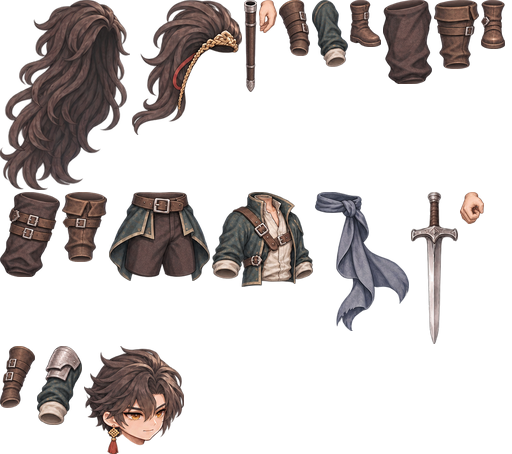
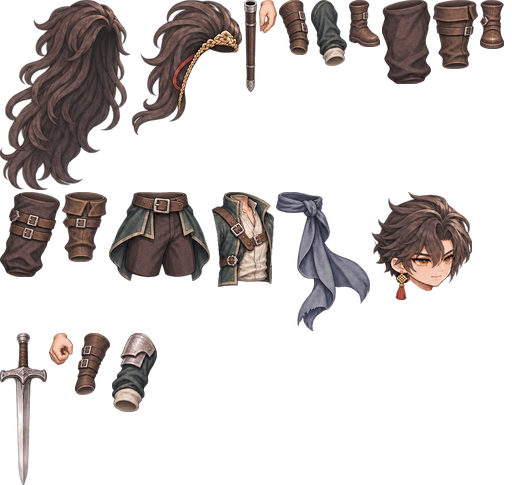
Fix doubled upper arms and stiff elbows on the hero rig
The torso part had both sleeves painted in, so the separate arm parts
showed as a second upper arm. The build tool now erases those sleeves.
The sword arm is drawn in front of the head, the elbow flexes in every
animation instead of staying straight or hyperextending, and the left
arm hangs closer to the body.

Claude-Session: https://claude.ai/code/session_01J9LfSfad22sechsEVjmRAY

Changed region(s): [[0.0, 0.0, 1.0, 0.7709], [0.0, 0.6784, 0.375, 1.0], [0.4688, 0.1233, 0.5, 0.2159]]

diff --git a/src/entities/heroAnimations.ts b/src/entities/heroAnimations.ts
@@ -5,6 +5,8 @@
  * 회전은 화면에서 시계 방향이 +이고, 캐릭터는 오른쪽을 보고 있다.
  *   - 아래로 늘어진 팔다리: +는 뒤로(왼쪽), -는 앞으로(오른쪽)
  *   - 위로 선 몸통·머리:   +는 앞으로 숙임, -는 뒤로 젖힘
+ *   - 팔꿈치(forearm):    -가 접는 방향. +로 주면 반대로 꺾여 보인다.
+ *   - 무릎(shin):         +가 접는 방향
  * x, y는 골반 전체를 옮기는 값(리그 좌표, y는 아래가 +)이다.
  *
  * 숫자를 바꾸면 바로 움직임이 달라진다. 뼈 이름은 src/assets/hero/rig.json 참고.
@@ -80,6 +82,7 @@ const idle: RigAnimation = {
       chest: s * 1.2,
       head: -s * 1.2,
       upper_arm_r: 2 + s * 1.5,
+      forearm_r: -8 - s * 2,
       upper_arm_l: -2 - s * 1.5,
       forearm_l: -4,
       hair_back: late * 2.5,
@@ -115,7 +118,7 @@ const walk: RigAnimation = {
       shin_l: bendL * 38 + 4,
       foot_l: -bendL * 10,
       upper_arm_r: s * 16,
-      forearm_r: -8,
+      forearm_r: -18 - Math.max(0, -s) * 16,
       upper_arm_l: -s * 18,
       forearm_l: -14 - Math.max(0, s) * 10,
       hair_back: 9 + twice * 4,
@@ -133,10 +136,10 @@ const attack1: RigAnimation = {
   follow: 38,
   pose: keyframes([
     [0, {}],
-    [0.22, { upper_arm_r: 165, forearm_r: 25, hand_r: 15, chest: -8, head: -4, hair_back: -8, thigh_r: -4, x: -3 }],
-    [0.42, { upper_arm_r: 255, forearm_r: 8, hand_r: -6, chest: 6, head: 2, upper_arm_l: 20, x: 5, y: 3 }],
-    [0.6, { upper_arm_r: 318, forearm_r: 0, hand_r: -10, chest: 13, head: 4, upper_arm_l: 30, hair_back: 14, ponytail: 16, sash: 16, thigh_l: -10, shin_l: 12, x: 8, y: 6 }],
-    [1, { upper_arm_r: 360, chest: 3, hair_back: 6, ponytail: 6, sash: 6, y: 2 }],
+    [0.22, { upper_arm_r: 160, forearm_r: -40, hand_r: 25, chest: -8, head: -4, hair_back: -8, thigh_r: -4, x: -3 }],
+    [0.42, { upper_arm_r: 250, forearm_r: -35, hand_r: -10, chest: 6, head: 2, upper_arm_l: 20, x: 5, y: 3 }],
+    [0.6, { upper_arm_r: 322, forearm_r: -8, hand_r: -14, chest: 13, head: 4, upper_arm_l: 30, hair_back: 14, ponytail: 16, sash: 16, thigh_l: -10, shin_l: 12, x: 8, y: 6 }],
+    [1, { upper_arm_r: 360, forearm_r: -8, chest: 3, hair_back: 6, ponytail: 6, sash: 6, y: 2 }],
   ]),
 };
 
@@ -147,11 +150,11 @@ const attack2: RigAnimation = {
   follow: 38,
   pose: keyframes([
     [0, {}],
-    [0.2, { upper_arm_r: 30, forearm_r: -10, chest: 10, head: 4, x: 2, y: 6, thigh_l: -8, shin_l: 12 }],
-    [0.42, { upper_arm_r: -85, forearm_r: -10, hand_r: -12, chest: 4, x: 6, y: 3 }],
-    [0.6, { upper_arm_r: -175, forearm_r: -15, hand_r: -8, chest: -9, head: -6, upper_arm_l: 24, hair_back: -10, ponytail: -10, sash: -8, x: 6 }],
-    [0.8, { upper_arm_r: -260, forearm_r: -20, chest: -4, hair_back: -4 }],
-    [1, { upper_arm_r: -360 }],
+    [0.2, { upper_arm_r: 30, forearm_r: -25, chest: 10, head: 4, x: 2, y: 6, thigh_l: -8, shin_l: 12 }],
+    [0.42, { upper_arm_r: -80, forearm_r: -30, hand_r: -12, chest: 4, x: 6, y: 3 }],
+    [0.6, { upper_arm_r: -160, forearm_r: -60, hand_r: -10, chest: -9, head: -6, upper_arm_l: 24, hair_back: -10, ponytail: -10, sash: -8, x: 6 }],
+    [0.8, { upper_arm_r: -250, forearm_r: -70, chest: -4, hair_back: -4 }],
+    [1, { upper_arm_r: -360, forearm_r: -8 }],
   ]),
 };
 
@@ -165,7 +168,7 @@ const attack3: RigAnimation = {
     [0.28, { upper_arm_r: 50, forearm_r: -100, hand_r: -8, chest: -10, head: -4, upper_arm_l: -30, forearm_l: -30, x: -8, y: 5, thigh_r: 6, hair_back: -6 }],
     [0.42, { upper_arm_r: -104, forearm_r: -12, hand_r: -22, chest: 18, head: -8, upper_arm_l: 55, forearm_l: -10, x: 20, y: 14, thigh_l: -42, shin_l: 46, foot_l: -6, thigh_r: 26, shin_r: 6, hair_back: 24, ponytail: 26, sash: 26 }],
     [0.72, { upper_arm_r: -100, forearm_r: -10, hand_r: -22, chest: 16, head: -6, upper_arm_l: 50, forearm_l: -10, x: 18, y: 13, thigh_l: -40, shin_l: 44, foot_l: -6, thigh_r: 24, shin_r: 6, hair_back: 12, ponytail: 12, sash: 14 }],
-    [1, { y: 2 }],
+    [1, { y: 2, forearm_r: -8 }],
   ]),
 };
 
@@ -186,7 +189,7 @@ const dodge: RigAnimation = {
     shin_r: 34,
     foot_r: 10,
     upper_arm_r: 34,
-    forearm_r: 6,
+    forearm_r: -35,
     upper_arm_l: 30,
     forearm_l: -40,
     hair_back: 34,

diff --git a/src/scenes/GameScene.ts b/src/scenes/GameScene.ts
@@ -259,7 +259,7 @@ export class GameScene extends Phaser.Scene {
 
     const font = 'system-ui, "Apple SD Gothic Neo", "Noto Sans KR", sans-serif';
     this.badge = this.add
-      .text(0, 18, '프로토타입 v0.6', { fontFamily: font, fontSize: '18px', color: '#e9d7b0' })
+      .text(0, 18, '프로토타입 v0.7', { fontFamily: font, fontSize: '18px', color: '#e9d7b0' })
       .setOrigin(1, 0)
       .setAlpha(0.7)
       .setScrollFactor(0)

diff --git a/tools/build_hero_rig.py b/tools/build_hero_rig.py
@@ -17,7 +17,7 @@ import os
 import sys
 
 import numpy as np
-from PIL import Image
+from PIL import Image, ImageDraw, ImageFilter
 
 OUT_DIR = os.path.join(os.path.dirname(__file__), "..", "src", "assets", "hero")
 
@@ -38,8 +38,8 @@ BONES = {
     "hand_r": ("forearm_r", (468, 782)),
     "sword": ("hand_r", (452, 826)),
     "upper_arm_l": ("chest", (742, 500)),
-    "forearm_l": ("upper_arm_l", (790, 640)),
-    "hand_l": ("forearm_l", (826, 772)),
+    "forearm_l": ("upper_arm_l", (776, 642)),
+    "hand_l": ("forearm_l", (804, 774)),
     "thigh_r": ("hip", (598, 800)),
     "shin_r": ("thigh_r", (566, 1010)),
     "foot_r": ("shin_r", (548, 1172)),
@@ -48,6 +48,15 @@ BONES = {
     "foot_l": ("shin_l", (726, 1172)),
     "sash": ("hip", (724, 706)),
     "scabbard": ("chest", (458, 356)),
+}
+
+# 파츠에서 지울 영역(원본 PNG 좌표의 다각형).
+# torso.png에는 양쪽 소매가 같이 그려져 있어서, 따로 있는 팔 파츠와 겹쳐 위팔이 두 개로 보인다.
+ERASE = {
+    "torso": [
+        [(56, 88), (40, 96), (0, 140), (0, 270), (71, 270), (75, 205), (70, 150), (62, 110)],
+        [(203, 90), (222, 100), (251, 135), (251, 270), (197, 270), (195, 205), (199, 150), (201, 110)],
+    ],
 }
 
 # 슬롯: 뒤에서 앞으로 그리는 순서.
@@ -59,8 +68,8 @@ SLOTS = [
     dict(part="hair_ponytail", bone="ponytail", pivot=(0.80, 0.33), scale=1.5, rot=-6),
     dict(part="scabbard", bone="scabbard", pivot=(0.5, 0.06), scale=0.95, rot=-38),
     dict(part="hand_l", bone="hand_l", pivot=(0.45, 0.06), scale=0.58, rot=-8),
-    dict(part="forearm_l", bone="forearm_l", fit=((0.42, 0.10), (0.62, 0.92), (826, 772)), wide=1.0),
-    dict(part="upper_arm_l", bone="upper_arm_l", fit=((0.50, 0.14), (0.36, 0.88), (790, 640)), wide=0.9),
+    dict(part="forearm_l", bone="forearm_l", fit=((0.42, 0.10), (0.62, 0.92), (804, 774)), wide=1.0),
+    dict(part="upper_arm_l", bone="upper_arm_l", fit=((0.50, 0.14), (0.36, 0.88), (776, 642)), wide=0.9),
     dict(part="foot_l", bone="foot_l", pivot=(0.34, 0.36), scale=0.62, rot=0),
     dict(part="thigh_l", bone="thigh_l", fit=((0.58, 0.08), (0.48, 0.92), (716, 1010)), wide=1.25),
     dict(part="shin_l", bone="shin_l", fit=((0.50, 0.14), (0.50, 0.93), (726, 1172)), wide=1.4),
@@ -70,11 +79,12 @@ SLOTS = [
     dict(part="pelvis", bone="hip", pivot=(0.50, 0.24), scale=1.34, rot=0),
     dict(part="torso", bone="chest", pivot=(0.52, 0.94), scale=1.3, rot=0),
     dict(part="sash", bone="sash", pivot=(0.62, 0.10), scale=1.45, rot=-6),
+    dict(part="head", bone="head", pivot=(0.62, 0.90), scale=1.32, rot=0),
+    # 검 든 팔은 머리보다 앞에 그린다 (휘두를 때 머리 뒤로 숨지 않게).
     dict(part="sword", bone="sword", pivot=(0.5, 0.11), scale=1.55, rot=37),
     dict(part="hand_r_grip", bone="hand_r", pivot=(0.48, 0.10), scale=0.6, rot=14),
     dict(part="forearm_r", bone="forearm_r", fit=((0.62, 0.10), (0.34, 0.90), (468, 782)), wide=1.0),
     dict(part="upper_arm_r", bone="upper_arm_r", fit=((0.62, 0.22), (0.28, 0.86), (516, 640)), wide=0.90),
-    dict(part="head", bone="head", pivot=(0.62, 0.90), scale=1.32, rot=0),
 ]
 
 
@@ -107,6 +117,14 @@ def largest_blob(mask: np.ndarray) -> np.ndarray:
 def load_part(folder: str, name: str) -> Image.Image:
     """희미한 잡티(거의 투명한 유색 픽셀)를 지우고 내용물에 맞게 자른다."""
     image = Image.open(os.path.join(folder, f"{name}.png")).convert("RGBA")
+    if name in ERASE:
+        keep = Image.new("L", image.size, 255)
+        draw = ImageDraw.Draw(keep)
+        for polygon in ERASE[name]:
+            draw.polygon(polygon, fill=0)
+        keep = keep.filter(ImageFilter.GaussianBlur(0.8))
+        alpha = np.asarray(image.getchannel("A")).astype(np.float32) * np.asarray(keep) / 255
+        image.putalpha(Image.fromarray(alpha.astype(np.uint8)))
     data = np.asarray(image).copy()
     data[data[:, :, 3] < 24] = 0
     data[~largest_blob(data[:, :, 3] > 24)] = 0  # 본체와 떨어진 점 같은 잡티 제거
@@ -213,6 +231,7 @@ def render_preview(images, slots, target: str, reference: str | None) -> None:
         backdrop.alpha_composite(ref)
         both.alpha_composite(backdrop, (width, 0))
         canvas = both
+    canvas = canvas.resize((canvas.width * 2, canvas.height * 2), Image.LANCZOS)
     canvas.save(target)
 
 
